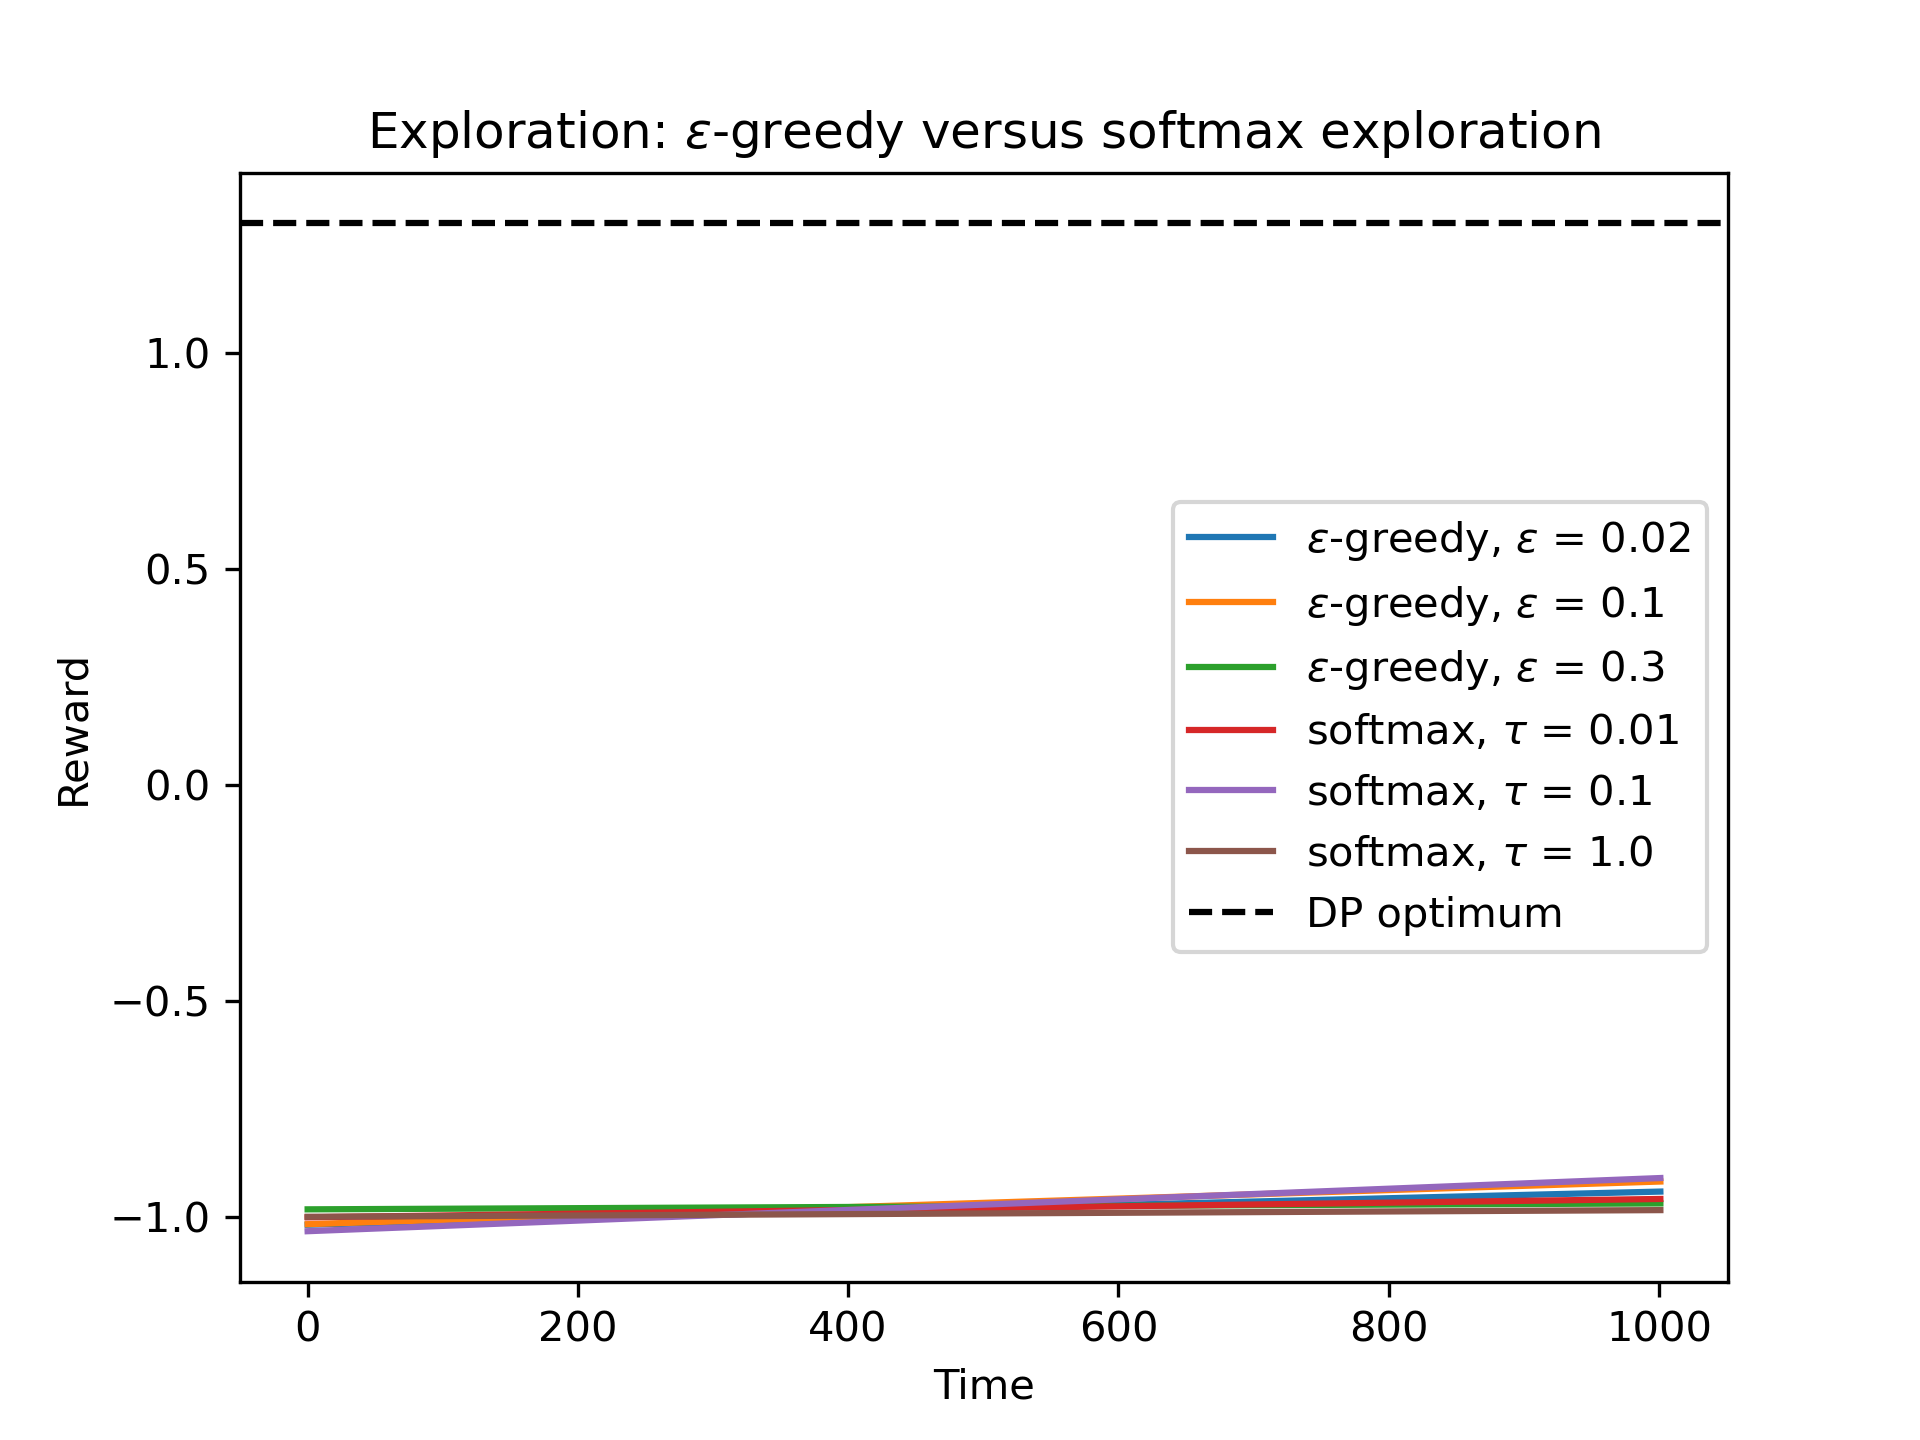
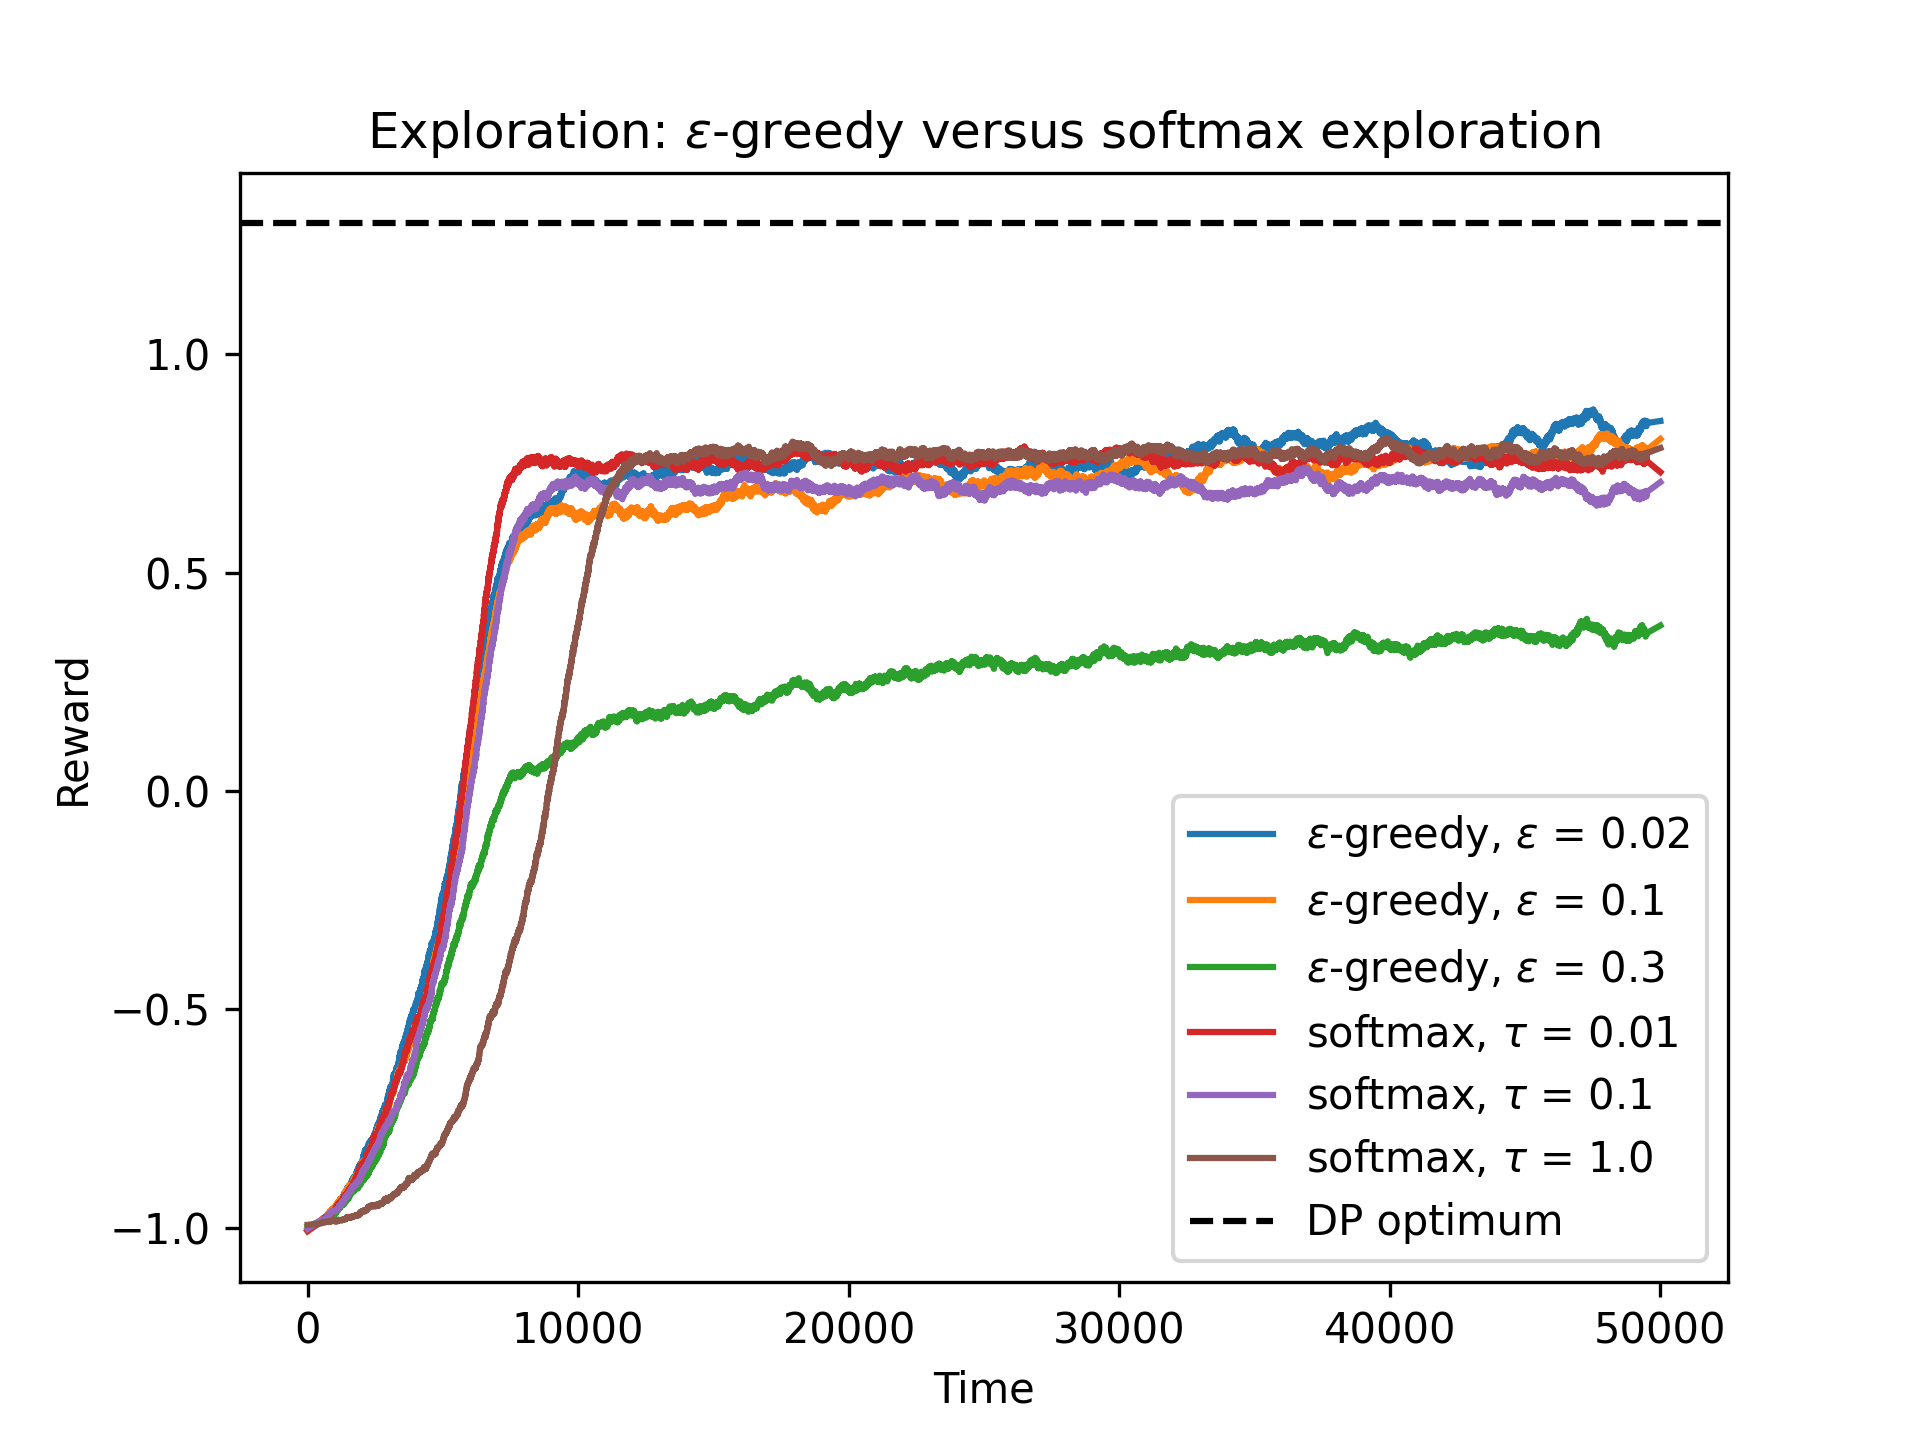
updates

diff --git a/Experiment.py b/Experiment.py
@@ -27,14 +27,15 @@ def average_over_repetitions(backup, n_repetitions, n_timesteps, max_episode_len
             rewards = q_learning(n_timesteps, learning_rate,
                                  gamma, policy, epsilon, temp, plot)
         elif backup == 'sarsa':
-            rewards = sarsa(n_timesteps, learning_rate, gamma, policy, epsilon, temp, plot)
+            rewards = sarsa(n_timesteps, learning_rate, gamma,
+                            policy, epsilon, temp, plot)
         elif backup == 'mc':
             rewards = monte_carlo(n_timesteps, max_episode_length, learning_rate, gamma,
-                   policy, epsilon, temp, plot)
+                                  policy, epsilon, temp, plot)
         elif backup == 'nstep':
             rewards = n_step_Q(n_timesteps, max_episode_length, learning_rate, gamma,
-                   policy, epsilon, temp, plot, n=n)
-        
+                               policy, epsilon, temp, plot, n=n)
+
         reward_results[rep] = rewards
 
     print('Running one setting takes {} minutes'.format((time.time()-now)/60))
@@ -48,12 +49,12 @@ def average_over_repetitions(backup, n_repetitions, n_timesteps, max_episode_len
 def experiment():
     # Settings
     # Experiment
-    n_repetitions = 10
+    n_repetitions = 50
     smoothing_window = 1001
     plot = False  # Plotting is very slow, switch it off when we run repetitions
 
     # MDP
-    n_timesteps = 1002
+    n_timesteps = 50000
     max_episode_length = 150
     gamma = 1.0
     # Parameters we will vary in the experiments, set them to some initial values:
@@ -80,43 +81,42 @@ def experiment():
     optimal_average_reward_per_timestep = 1.3
 
     # Assignment 2: Effect of exploration
-    # policy = 'egreedy'
-    # # epsilon = [0.02,0.1,0.3] and softmax with temps = [0.01,0.1,1.0].
-    # epsilons = [0.02, 0.1, 0.3]
-    # learning_rate = 0.25
-    # backup = 'q'
-    # Plot = LearningCurvePlot(
-    #     title='Exploration: $\epsilon$-greedy versus softmax exploration')
-    # for epsilon in epsilons:
-    #     learning_curve = average_over_repetitions(backup, n_repetitions, n_timesteps, max_episode_length, learning_rate,
-    #                                               gamma, policy, epsilon, temp, smoothing_window, plot, n)
-    #     Plot.add_curve(
-    #         learning_curve, label=r'$\epsilon$-greedy, $\epsilon $ = {}'.format(epsilon))
-    # policy = 'softmax'
-    # temps = [0.01, 0.1, 1.0]
-    # for temp in temps:
-    #     learning_curve = average_over_repetitions(backup, n_repetitions, n_timesteps, max_episode_length, learning_rate,
-    #                                               gamma, policy, epsilon, temp, smoothing_window, plot, n)
-    #     Plot.add_curve(
-    #         learning_curve, label=r'softmax, $ \tau $ = {}'.format(temp))
-    # Plot.add_hline(optimal_average_reward_per_timestep, label="DP optimum")
-    # Plot.save('exploration.png')
-
+    policy = 'egreedy'
+    # epsilon = [0.02,0.1,0.3] and softmax with temps = [0.01,0.1,1.0].
+    epsilons = [0.02, 0.1, 0.3]
+    learning_rate = 0.25
+    backup = 'q'
+    Plot = LearningCurvePlot(
+        title='Exploration: $\epsilon$-greedy versus softmax exploration')
+    for epsilon in epsilons:
+        learning_curve = average_over_repetitions(backup, n_repetitions, n_timesteps, max_episode_length, learning_rate,
+                                                  gamma, policy, epsilon, temp, smoothing_window, plot, n)
+        Plot.add_curve(
+            learning_curve, label=r'$\epsilon$-greedy, $\epsilon $ = {}'.format(epsilon))
+    policy = 'softmax'
+    temps = [0.01, 0.1, 1.0]  
+    for temp in temps:
+        learning_curve = average_over_repetitions(backup, n_repetitions, n_timesteps, max_episode_length, learning_rate,
+                                                  gamma, policy, epsilon, temp, smoothing_window, plot, n)
+        Plot.add_curve(
+            learning_curve, label=r'softmax, $ \tau $ = {}'.format(temp))
+    Plot.add_hline(optimal_average_reward_per_timestep, label="DP optimum")
+    Plot.save('exploration.png')
 
     # # Assignment 3: Q-learning versus SARSA
-    # policy = 'egreedy'
-    # epsilon = 0.1  # set epsilon back to original value
-    # learning_rates = [0.02, 0.1, 0.4]
-    # backups = ['q', 'sarsa']
-    # Plot = LearningCurvePlot(title='Back-up: on-policy versus off-policy')
-    # for backup in backups:
-    #     for learning_rate in learning_rates:
-    #         learning_curve = average_over_repetitions(backup, n_repetitions, n_timesteps, max_episode_length, learning_rate,
-    #                                                   gamma, policy, epsilon, temp, smoothing_window, plot, n)
-    #         Plot.add_curve(learning_curve, label=r'{}, $\alpha$ = {} '.format(
-    #             backup_labels[backup], learning_rate))
-    # Plot.add_hline(optimal_average_reward_per_timestep, label="DP optimum")
-    # Plot.save('on_off_policy.png')
+    policy = 'egreedy'
+    epsilon = 0.1  # set epsilon back to original value
+    learning_rates = [0.02, 0.1, 0.4]
+    backups = ['q', 'sarsa']
+    Plot = LearningCurvePlot(title='Back-up: on-policy versus off-policy')
+    for backup in backups:
+        for learning_rate in learning_rates:
+            learning_curve = average_over_repetitions(backup, n_repetitions, n_timesteps, max_episode_length, learning_rate,
+                                                      gamma, policy, epsilon, temp, smoothing_window, plot, n)
+            Plot.add_curve(learning_curve, label=r'{}, $\alpha$ = {} '.format(
+                backup_labels[backup], learning_rate))
+    Plot.add_hline(optimal_average_reward_per_timestep, label="DP optimum")
+    Plot.save('on_off_policy.png')
 
     # ##### Assignment 4: Back-up depth
     policy = 'egreedy'

diff --git a/Q_learning.py b/Q_learning.py
@@ -27,9 +27,6 @@ class QLearningAgent:
             if epsilon is None:
                 raise KeyError("Provide an epsilon")
 
-            # TO DO: Add own code
-            # a = np.random.randint(0,self.n_actions) # Replace this with correct action selection
-            # np.random.choice(self.n_actions, p=)
             if (np.random.uniform(0, 1) >= epsilon):
                 a = argmax(self.Q_sa[s])
 
@@ -71,6 +68,7 @@ def q_learning(n_timesteps, learning_rate, gamma, policy='egreedy', epsilon=None
 
         a = pi.select_action(s, policy, epsilon, temp)
         s_next, r, done = env.step(a)
+        epsilon = epsilon * 0.95
         pi.update(s, a, r, s_next, done)
         s = s_next
 

diff --git a/DynamicProgramming.py b/DynamicProgramming.py
@@ -84,17 +84,22 @@ def experiment():
     s = env.reset()
 
     rewards = []
-
+    
+    step = 0
     while not done:
         a = QIagent.select_action(s)
 
         s_next, r, done = env.step(a)
-        # env.render(Q_sa=QIagent.Q_sa, plot_optimal_policy=True, step_pause=0.2)
+        step += 1
         rewards.append(r)
         s = s_next
-
+        
+        if step == 1:
+            env.render(Q_sa=QIagent.Q_sa, plot_optimal_policy=True, step_pause=0.2)
+            
+    
     mean_reward_per_timestep = np.sum(rewards) / len(rewards)
-
+    
     # print("Mean reward per timestep under optimal policy: {}".format(
     #     mean_reward_per_timestep))
 

diff --git a/Environment.py b/Environment.py
@@ -6,7 +6,7 @@ Leiden University, The Netherlands
 By Thomas Moerland
 """
 import matplotlib
-matplotlib.use('Qt5Agg') # 'TkAgg'
+# matplotlib.use('Qt5Agg') # 'TkAgg'
 import numpy as np
 import matplotlib.pyplot as plt
 from matplotlib.patches import Rectangle,Circle,Arrow
